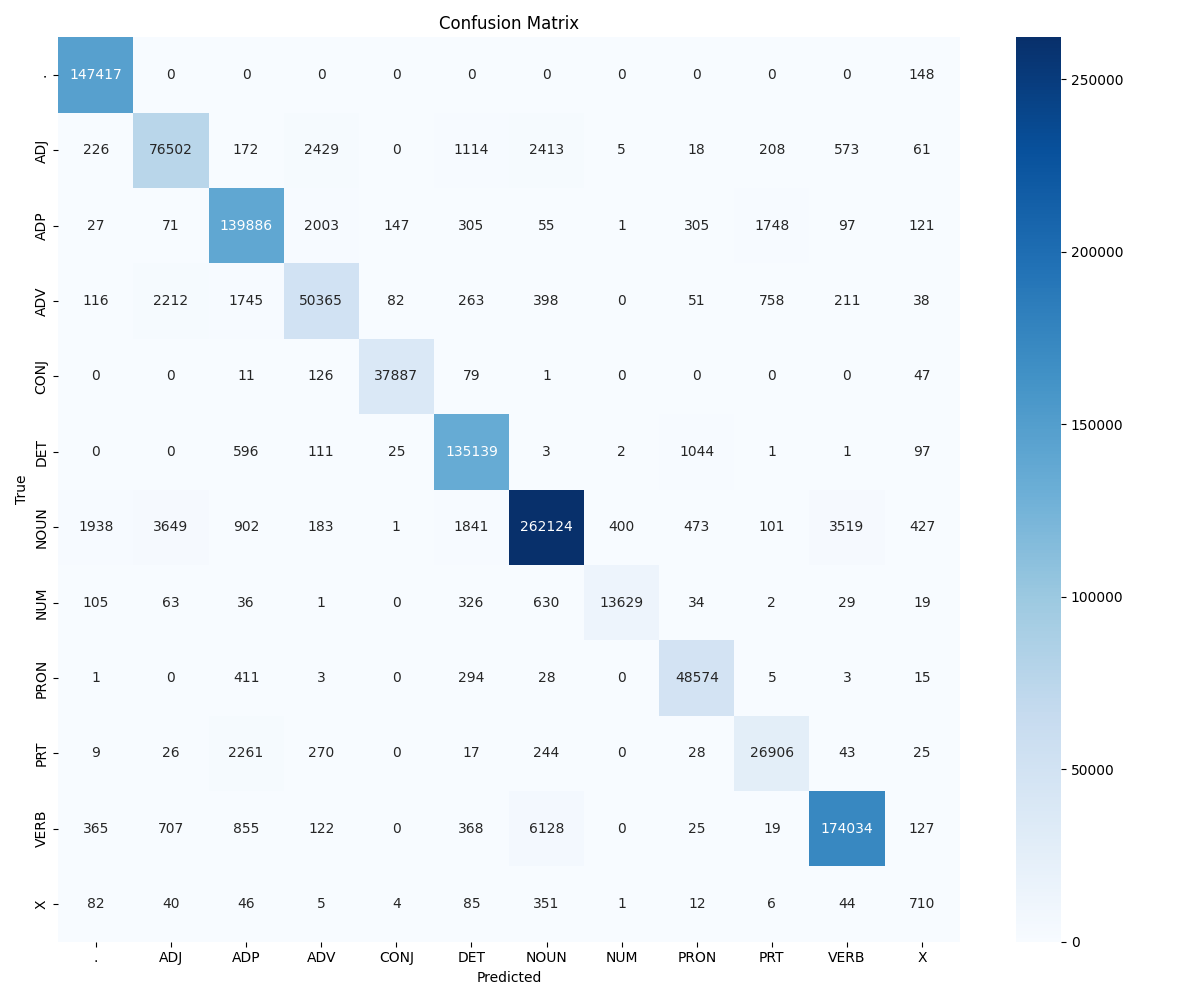
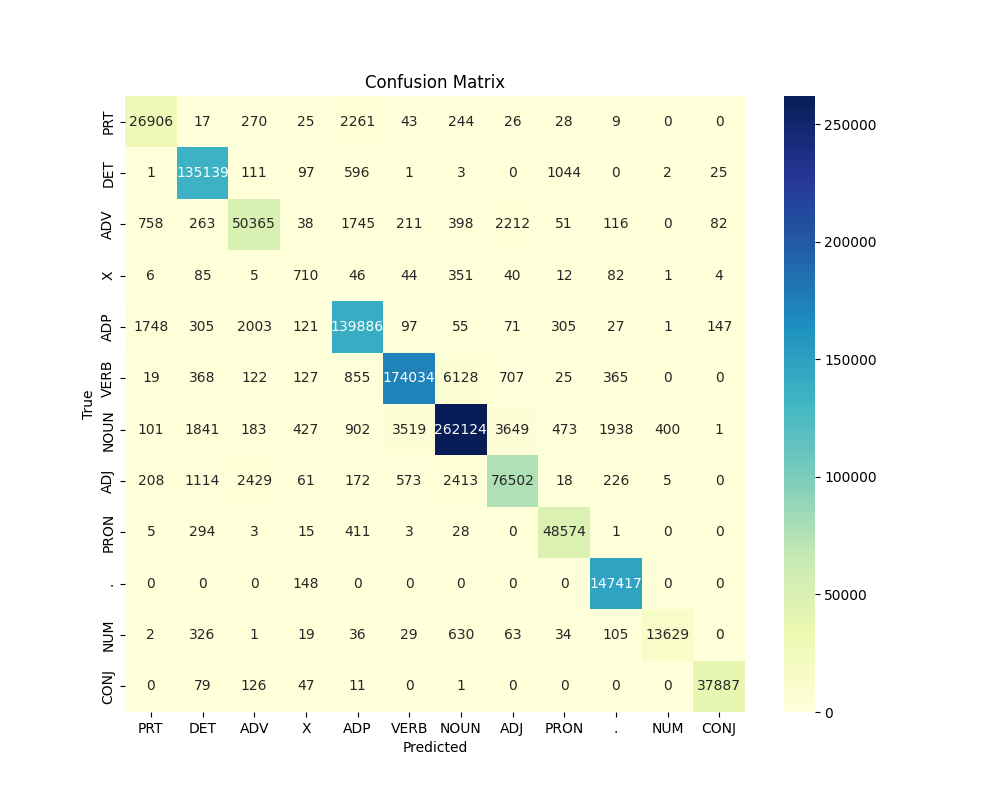
UPDATE: new features implemented

diff --git a/pos_tagging_demo.py b/pos_tagging_demo.py
@@ -1,18 +1,183 @@
+import tkinter as tk
+from tkinter import scrolledtext, font as tkfont
 import nltk
 from nltk.corpus import brown
-from hmm_pos_tagger import HMMPOSTagger  # Assuming the previous code is saved in hmm_pos_tagger.py
+from collections import defaultdict
+import numpy as np
+from sklearn.metrics import accuracy_score, confusion_matrix, precision_recall_fscore_support
+from sklearn.model_selection import KFold
+import matplotlib.pyplot as plt
+import seaborn as sns
+import spacy
 
 # Download required NLTK data
 nltk.download('brown')
 nltk.download('universal_tagset')
 
+# Load spaCy model
+try:
+    nlp = spacy.load("en_core_web_sm")
+except IOError:
+    print("The spaCy model 'en_core_web_sm' is not installed. Please run 'python -m spacy download en_core_web_sm' to install it.")
+    exit()
+
+# HMM-based POS Tagger class
+class HMMPOSTagger2:
+    def __init__(self):
+        self.transition_probs = defaultdict(lambda: defaultdict(float))
+        self.emission_probs = defaultdict(lambda: defaultdict(float))
+        self.tag_counts = defaultdict(float)
+        self.vocab = set()
+        self.tags = set()
+
+    def train(self, tagged_sentences):
+        for sentence in tagged_sentences:
+            prev_tag = '<START>'
+            for word, tag in sentence:
+                self.tag_counts[tag] += 1
+                self.transition_probs[prev_tag][tag] += 1
+                self.emission_probs[tag][word] += 1
+                self.vocab.add(word)
+                self.tags.add(tag)
+                prev_tag = tag
+
+        # Normalize probabilities
+        for prev_tag in self.transition_probs:
+            total = sum(self.transition_probs[prev_tag].values())
+            for tag in self.transition_probs[prev_tag]:
+                self.transition_probs[prev_tag][tag] /= total
+
+        for tag in self.emission_probs:
+            total = sum(self.emission_probs[tag].values())
+            for word in self.emission_probs[tag]:
+                self.emission_probs[tag][word] /= total
+
+    def viterbi(self, sentence):
+        V = [{}]
+        path = {}
+
+        # Initialize base cases (t == 0)
+        for tag in self.tags:
+            V[0][tag] = self.transition_probs['<START>'][tag] * self.emission_probs[tag].get(sentence[0], 1e-10)
+            path[tag] = [tag]
+
+        # Run Viterbi for t > 0
+        for t in range(1, len(sentence)):
+            V.append({})
+            newpath = {}
+
+            for tag in self.tags:
+                (prob, state) = max((V[t-1][prev_tag] * self.transition_probs[prev_tag].get(tag, 1e-10) * 
+                                     self.emission_probs[tag].get(sentence[t], 1e-10), prev_tag) 
+                                    for prev_tag in self.tags)
+                V[t][tag] = prob
+                newpath[tag] = path[state] + [tag]
+
+            path = newpath
+
+        (prob, state) = max((V[len(sentence) - 1][tag], tag) for tag in self.tags)
+        return path[state]
+
+    def tag(self, sentence):
+        return list(zip(sentence, self.viterbi(sentence)))
+
+    def print_transition_for_sentence(self, sentence):
+        # Get the tagged sequence for the given sentence
+        tagged_sequence = self.viterbi(sentence)
+        transitions = defaultdict(float)
+
+        # Compute transitions from the tagged sequence
+        prev_tag = '<START>'
+        for tag in tagged_sequence:
+            transitions[(prev_tag, tag)] += 1
+            prev_tag = tag
+        
+        # Normalize the transitions
+        total_transitions = sum(transitions.values())
+        transitions = {pair: count / total_transitions for pair, count in transitions.items()}
+
+        print("Transition Probabilities for Given Sentence:")
+        for (prev_tag, tag), prob in transitions.items():
+            print(f"  From '{prev_tag}' to '{tag}': {prob:.4f}")
+
+# Named Entity Recognition function
+def preprocess_sentence_with_ner(sentence):
+    doc = nlp(sentence)
+    ner_tags = {ent.text: 'NOUN' for ent in doc.ents}
+    return ner_tags
+
+# Data preparation function
 def prepare_data():
     tagged_sents = brown.tagged_sents(tagset='universal')
     return [[(word.lower(), tag) for word, tag in sent] for sent in tagged_sents]
 
+# Cross-validation data splitting
+def get_train_test_data(tagged_sents, fold, num_folds=5):
+    kf = KFold(n_splits=num_folds, shuffle=True, random_state=42)
+    splits = list(kf.split(tagged_sents))
+    train_index, test_index = splits[fold]
+    train_data = [tagged_sents[i] for i in train_index]
+    test_data = [tagged_sents[i] for i in test_index]
+    return train_data, test_data
+
+# Model evaluation
+def evaluate_model(tagged_sents, num_folds=5):
+    accuracies = []
+    y_true = []
+    y_pred = []
+    
+    all_tags = set()  # To collect all tags
+
+    for fold in range(num_folds):
+        train_data, test_data = get_train_test_data(tagged_sents, fold, num_folds)
+        
+        tagger = HMMPOSTagger2()
+        tagger.train(train_data)
+        
+        true_tags = []
+        predicted_tags = []
+        
+        for sentence in test_data:
+            words, tags = zip(*sentence)
+            predicted_tags_for_sentence = [tag for word, tag in tagger.tag(words)]
+            
+            true_tags.extend(tags)
+            predicted_tags.extend(predicted_tags_for_sentence)
+            all_tags.update(tags)
+            all_tags.update(predicted_tags_for_sentence)
+        
+        accuracy = accuracy_score(true_tags, predicted_tags)
+        accuracies.append(accuracy)
+        
+        y_true.extend(true_tags)
+        y_pred.extend(predicted_tags)
+    
+    avg_accuracy = np.mean(accuracies)
+    conf_matrix = confusion_matrix(y_true, y_pred, labels=list(all_tags))
+
+    # Calculate per-tag precision, recall, and F1
+    precision_per_tag, recall_per_tag, f1_per_tag, _ = precision_recall_fscore_support(y_true, y_pred, labels=list(all_tags))
+
+    precision, recall, f1_macro, _ = precision_recall_fscore_support(y_true, y_pred, average='macro')
+    _, _, f05, _ = precision_recall_fscore_support(y_true, y_pred, average='macro', beta=0.5)
+    _, _, f2, _ = precision_recall_fscore_support(y_true, y_pred, average='macro', beta=2.0)
+
+    return avg_accuracy, conf_matrix, precision, recall, f1_macro, f05, f2, list(all_tags), precision_per_tag, recall_per_tag, f1_per_tag
+
+# Confusion matrix plotting
+def plot_confusion_matrix(conf_matrix, tags):
+    plt.figure(figsize=(10, 8))
+    sns.heatmap(conf_matrix, annot=True, fmt="d", cmap="YlGnBu", xticklabels=tags, yticklabels=tags)
+    plt.xlabel('Predicted')
+    plt.ylabel('True')
+    plt.title('Confusion Matrix')
+    plt.savefig('confusion_matrix.png')  # Save the plot as an image file
+    plt.show()
+
+# Demo GUI Application
 def train_tagger():
     data = prepare_data()
-    tagger = HMMPOSTagger()
+    tagger = HMMPOSTagger2()
     tagger.train(data)
     return tagger
 
@@ -20,20 +185,84 @@ def tag_sentence(tagger, sentence):
     words = sentence.lower().split()
     return tagger.tag(words)
 
+def process_input(): #for GUI 
+    sentence = input_text.get("1.0", tk.END).strip()
+    if sentence.lower() == 'quit':
+        root.quit()
+    else:
+        tagged_sentence = tag_sentence(tagger, sentence)
+        result_text.config(state=tk.NORMAL)
+        result_text.delete("1.0", tk.END)  # Clear previous output
+        for word, tag in tagged_sentence:
+            result_text.insert(tk.END, f"{word} ({tag})\n")
+        
+        # Print transition probabilities for the given sentence
+        tagger.print_transition_for_sentence([tag for word, tag in tagged_sentence])
+        
+        result_text.config(state=tk.DISABLED)
+
+# Main program and evaluation
 def main():
+    tagged_sents = prepare_data()
+    avg_accuracy, conf_matrix, precision, recall, f1_macro, f05, f2, tags, precision_per_tag, recall_per_tag, f1_per_tag = evaluate_model(tagged_sents)
+
+    # Print overall metrics to the terminal
+    print(f"Average Accuracy (5-Fold Cross-Validation): {avg_accuracy:.4f}")
+    print(f"Precision: {precision:.4f}")
+    print(f"Recall: {recall:.4f}")
+    print(f"F1-Score: {f1_macro:.4f}")
+    print(f"F0.5-Score: {f05:.4f}")
+    print(f"F2-Score: {f2:.4f}")
+    print("\nConfusion Matrix:")
+    print(conf_matrix)
+
+    # Print per-tag metrics to the terminal
+    print("\nPer-POS Tag Performance:")
+    for idx, tag in enumerate(tags):
+        print(f"{tag}: Precision: {precision_per_tag[idx]:.4f}, Recall: {recall_per_tag[idx]:.4f}, F1-Score: {f1_per_tag[idx]:.4f}")
+
+    # Plot confusion matrix
+    plot_confusion_matrix(conf_matrix, tags)
+
+if __name__ == "__main__":
+    # Evaluate and show results in console
+    main()
+
+    # Create the GUI demo
+    root = tk.Tk()
+    root.title("HMM POS Tagger")
+
+    # Set a background color
+    root.configure(bg='#F0F8FF')
+
+    # Custom fonts
+    title_font = tkfont.Font(family="Helvetica", size=18, weight="bold")
+    label_font = tkfont.Font(family="Helvetica", size=14)
+    text_font = tkfont.Font(family="Courier New", size=14)
+
+    # Create and place widgets
+    title_label = tk.Label(root, text="HMM POS Tagger", font=title_font, bg='#F0F8FF')
+    title_label.pack(pady=20)
+
+    input_label = tk.Label(root, text="Enter a sentence:", font=label_font, bg='#F0F8FF')
+    input_label.pack(pady=10)
+
+    input_text = scrolledtext.ScrolledText(root, height=8, width=70, font=text_font, wrap=tk.WORD)
+    input_text.pack(pady=10)
+
+    process_button = tk.Button(root, text="Tag Sentence", font=label_font, command=process_input, bg='#4CAF50', fg='white', relief=tk.RAISED)
+    process_button.pack(pady=15)
+
+    result_label = tk.Label(root, text="Tagged Sentence:", font=label_font, bg='#F0F8FF')
+    result_label.pack(pady=10)
+
+    result_text = scrolledtext.ScrolledText(root, height=12, width=70, font=text_font, state=tk.DISABLED, wrap=tk.WORD)
+    result_text.pack(pady=10)
+
+    # Train the tagger for the demo
     print("Training the HMM POS tagger...")
     tagger = train_tagger()
     print("Tagger trained successfully!")
 
-    while True:
-        sentence = input("\nEnter a sentence to tag (or 'quit' to exit): ")
-        if sentence.lower() == 'quit':
-            break
-
-        tagged_sentence = tag_sentence(tagger, sentence)
-        print("\nTagged sentence:")
-        for word, tag in tagged_sentence:
-            print(f"{word}: {tag}")
-
-if __name__ == "__main__":
-    main()
+    # Start the GUI event loop
+    root.mainloop()

diff --git a/hmm_pos_tagger.py b/hmm_pos_tagger.py
@@ -113,4 +113,4 @@ if __name__ == "__main__":
     print("Training the HMM POS tagger... This may take a few minutes.")
     trained_tagger = train_tagger()
     print("Tagger trained successfully! Launching the Gradio interface...")
-    iface.launch()
+    iface.launch(share=True)
